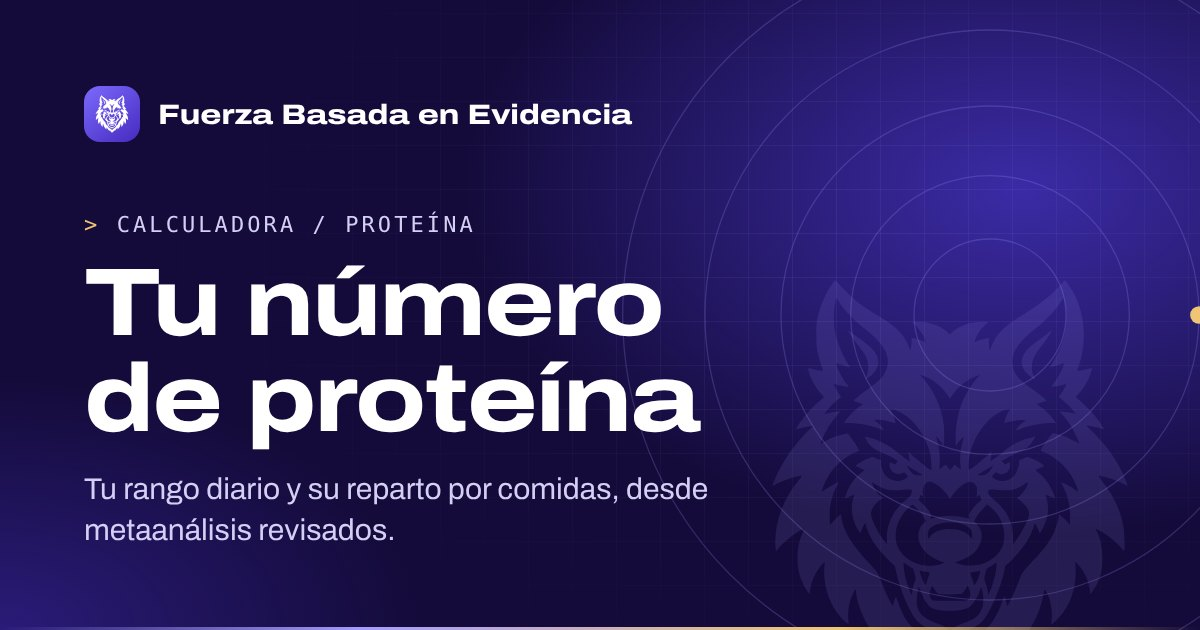
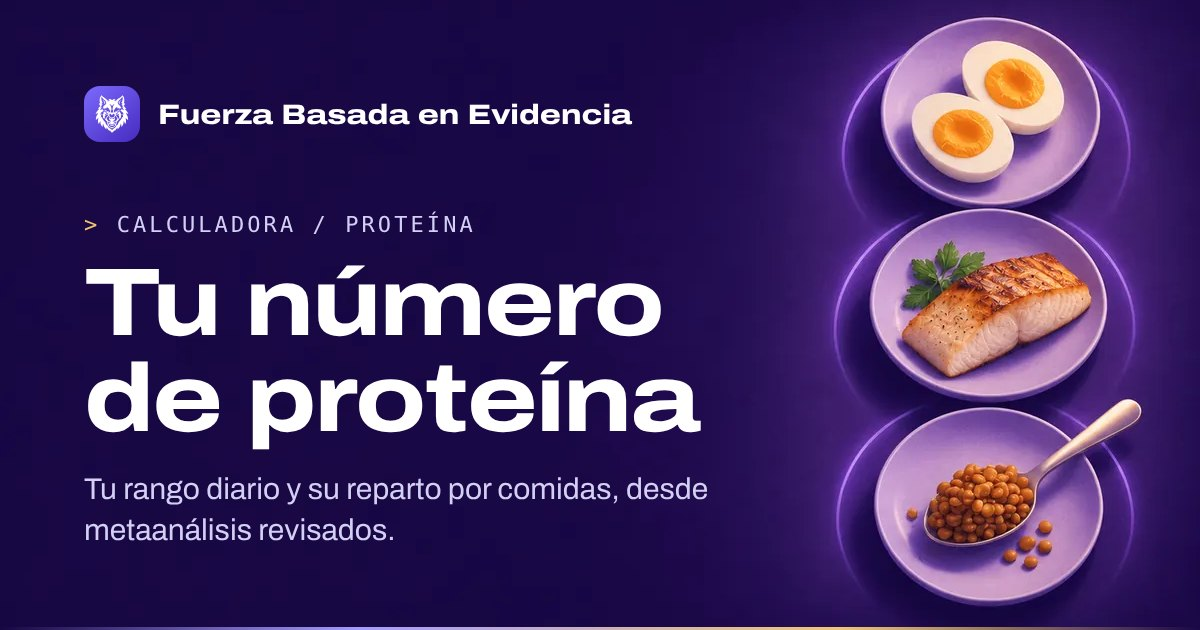
Ilustraciones W6: Pedir plaza, Recibido, Privacidad y calculadora (cabecera e imagen al compartir)
Claude-Session: https://claude.ai/code/session_01Ru5yvGXfDuFuGUYrexRL2R

diff --git a/privacidad.html b/privacidad.html
@@ -13,7 +13,7 @@
   <a class="btn peq claro" href="pedir-plaza.html">Pedir plaza</a>
   <details class="menu"><summary aria-label="Abrir el menú"><span></span></summary><div><a href="index.html">Inicio</a><a href="quien-soy.html">Quién soy</a><a href="programas.html">Programas</a><a href="puesta-a-punto.html">Puesta a punto</a><a href="guias.html">Guías</a><a href="newsletter.html">Newsletter</a><a href="dudas.html">Dudas</a><a class="app" href="https://atletas.fuerzabasadaenevidencia.com">Ya soy atleta: entrar</a></div></details>
 </div></div>
-<header class="hero mini t-privacidad" id="inicio"><svg class="anillos" viewBox="0 0 600 600" aria-hidden="true"><circle cx="300" cy="300" r="60"/><circle cx="300" cy="300" r="110"/><circle cx="300" cy="300" r="165"/><circle cx="300" cy="300" r="225"/><circle cx="300" cy="300" r="290"/><circle class="punto" cx="465" cy="300" r="7"/><circle class="punto p2" cx="300" cy="75" r="5"/></svg><div class="marca-agua"><svg class="lobo" viewBox="150 82 954 1092" aria-hidden="true"><path fill-rule="evenodd" d="M318 93C298 118 281 158 274 198C272 213 272 250 274 267C276 281 284 310 288 320C292 329 292 329 270 325C248 320 250 320 252 327C256 347 270 372 287 391L293 398 286 404C263 422 236 453 221 478C218 484 217 484 229 480C239 478 259 474 263 474C265 474 262 477 249 489C226 512 206 537 189 565C177 584 161 617 157 630L156 633 163 630C181 620 202 613 221 608C236 605 236 605 228 615C183 667 158 740 165 801C165 808 166 808 169 803C182 786 211 761 233 750C242 745 242 746 238 754C221 788 218 837 230 874C235 890 247 912 254 918C256 920 256 920 256 917C256 893 270 860 289 840L295 834 295 838C288 889 305 944 338 982C343 988 358 1001 359 1000C359 1000 358 997 358 993C356 977 357 955 362 939C364 930 375 908 377 907C377 907 378 910 378 915C381 949 401 995 427 1030C438 1044 456 1062 466 1068L469 1070 468 1058C468 1049 468 1044 469 1037C471 1026 476 1012 478 1013C478 1013 480 1017 482 1022C494 1052 520 1085 547 1108L556 1114 556 1103L557 1091 564 1101C577 1118 624 1167 627 1167C629 1167 672 1123 680 1114C684 1109 689 1102 692 1098L698 1090 698 1102C698 1109 698 1114 699 1114C700 1114 715 1101 724 1092C745 1071 764 1042 773 1020C775 1016 776 1013 777 1013C778 1013 782 1025 784 1035C786 1042 786 1046 786 1057C786 1064 786 1070 786 1070C788 1070 804 1056 811 1048C843 1015 867 966 874 923C875 918 876 912 877 910L877 907 880 911C893 929 900 965 896 992C896 996 895 1000 896 1000C896 1001 909 990 916 982C949 947 965 893 959 839L959 834 963 838C982 855 998 891 998 916C998 921 999 921 1005 912C1023 889 1031 860 1031 826C1031 799 1026 774 1017 755C1012 746 1012 745 1020 750C1041 760 1067 781 1083 800L1088 807 1089 803C1091 795 1089 756 1087 743C1079 696 1058 652 1026 615C1018 604 1017 604 1036 609C1053 613 1074 621 1091 630C1095 631 1098 633 1098 633C1098 630 1087 603 1081 592C1062 554 1037 521 1004 489C996 480 989 474 989 474C990 473 1018 478 1026 481C1032 482 1036 483 1036 483C1036 482 1018 455 1011 447C1001 435 980 414 970 406C965 402 961 398 961 398C961 397 964 393 968 389C984 372 998 347 1003 324C1004 320 1005 320 984 325C961 329 963 330 967 319C989 259 986 188 960 132C952 115 934 88 931 88C931 88 925 94 919 101C889 133 862 154 809 186C780 204 763 219 749 239C743 249 736 264 734 270C733 278 730 266 730 251L730 240 727 241C715 244 709 245 701 248C696 250 692 252 692 252C692 251 695 243 698 236C703 225 709 217 720 207L728 199 718 198C686 196 653 207 633 225L627 231 621 226C601 206 562 194 531 199L526 200 532 204C540 211 550 224 555 233C559 241 563 251 562 252C562 252 558 250 553 248C546 246 538 243 527 241L525 240 525 251C525 262 523 274 521 272C521 272 520 269 519 266C508 236 487 213 445 187C408 165 396 156 378 142C366 133 341 108 331 96C327 92 323 88 323 88C323 88 320 90 318 93M324 142C318 165 318 198 322 222C327 250 340 282 357 310L362 318 357 318C355 317 346 315 339 312C332 310 326 308 325 308C324 309 331 326 337 337C342 347 351 361 357 367L359 370 355 370C349 370 338 368 327 365C323 363 319 363 319 363C319 366 332 389 337 395L340 397 337 399C324 408 309 423 298 437C293 443 293 443 306 440C315 437 330 435 335 435C337 435 335 437 330 443C312 463 297 487 288 510C284 521 284 522 289 519C305 508 329 499 353 494C355 493 357 494 364 504C374 517 380 527 384 535L387 540 382 542C347 555 315 584 298 620C293 630 286 648 288 648C288 648 292 645 297 642C305 636 325 625 331 623L333 623 331 626C320 645 313 665 309 690C308 701 308 733 309 735C310 735 311 734 313 732C321 722 336 708 338 708C339 708 339 711 339 715C343 751 367 791 416 841C434 860 436 863 444 884C451 902 459 920 464 931C468 939 475 951 476 951C476 951 477 947 478 942C480 934 483 926 484 926C484 927 486 933 489 940C497 966 512 993 527 1008C537 1019 547 1027 563 1035C582 1044 592 1051 602 1061C610 1069 621 1084 625 1092C627 1097 627 1097 630 1092C633 1084 643 1070 650 1063C660 1052 668 1046 687 1036C697 1031 708 1025 712 1022C734 1005 753 976 765 940L771 925 773 930C774 933 776 939 777 943L778 951 780 949C786 941 801 908 811 881C818 863 819 861 836 843C872 806 888 786 901 760C909 742 915 722 915 711C915 709 915 708 916 708C918 708 931 720 941 731C943 733 944 735 945 735C945 734 945 725 945 713C945 682 940 661 927 635C920 621 920 622 932 627C939 630 955 640 961 645C967 649 967 648 963 636C950 596 915 559 875 543L867 540 871 532C875 525 889 504 896 497L899 493 907 495C922 498 935 503 952 512C961 516 969 520 969 520C970 520 965 507 959 496C950 476 938 459 922 441C917 436 917 435 919 435C924 435 942 438 950 440C955 441 959 442 959 442C959 441 954 434 945 424C938 417 930 409 917 399L915 397 921 389C927 380 935 366 935 364C935 363 934 363 929 364C917 368 896 371 896 369C896 369 899 365 902 361C909 351 914 344 919 334C924 325 930 309 929 308C928 308 926 309 922 310C915 313 896 318 894 318C892 318 893 316 898 308C928 258 940 210 934 162C932 150 929 136 928 135C928 134 925 138 922 143C910 163 890 185 867 205C835 231 830 235 821 245C800 267 791 286 792 307C794 332 805 348 840 373C866 391 885 407 882 408C881 409 875 410 869 412C862 414 857 416 857 416C857 417 861 419 865 422C880 432 893 445 904 460L908 466 895 466C859 468 831 474 808 484C805 485 803 486 802 486C800 483 816 466 824 462L829 460 824 459C817 457 798 459 784 463C777 465 771 467 771 467C770 466 776 448 780 440L786 429 782 430C732 437 679 509 676 575C676 592 676 592 684 587C693 581 709 568 724 554L737 542 737 546C737 547 736 553 736 558C735 562 734 566 734 567C735 568 758 552 771 540C786 528 802 518 820 511C826 509 852 502 853 502C854 503 848 513 843 519C835 530 823 538 804 546C792 551 783 556 772 562L764 567 768 571C772 577 772 577 779 573C786 569 786 569 786 575C789 594 770 608 752 599L748 597 743 602C737 609 737 608 742 612C758 625 783 622 797 606C804 598 811 578 810 568C810 566 810 565 820 561L831 556 840 559C851 563 862 568 871 575C878 580 878 580 873 582C871 583 866 585 862 587L854 591 857 594C874 607 887 622 896 641C901 651 907 666 905 666C905 666 900 664 894 662C881 656 879 656 881 659C887 674 889 701 884 717C881 728 876 741 871 749C864 760 865 760 862 751C857 738 850 728 850 735C850 738 843 757 840 764C828 788 804 818 783 837L773 845 772 854C764 893 741 952 722 980C711 997 700 1005 669 1018C653 1025 640 1035 630 1046L627 1050 618 1041C607 1030 599 1024 582 1016C558 1006 550 1001 540 991C520 968 493 905 483 855L481 846 472 837C438 806 416 775 407 746C402 730 403 731 399 736C397 741 395 745 390 757C389 761 378 742 372 726C365 705 365 679 372 662C373 659 374 657 373 657C371 657 360 661 355 664C352 665 349 666 349 666C348 665 353 650 358 640C366 623 380 607 393 597C397 594 400 592 400 591C400 591 389 586 383 583C380 582 377 580 377 580C377 577 405 561 417 558L422 556 433 561L445 565 444 569C443 579 449 596 456 605C470 622 497 625 513 611L516 608 511 603L506 597 502 599C495 603 485 602 478 598C470 593 465 582 467 573L468 570 475 573C483 577 482 577 486 571L489 567 484 564C474 557 465 553 451 547C428 537 419 531 410 519C407 514 401 504 401 503C401 502 422 507 433 511C451 518 467 527 485 542C497 552 514 564 518 567C521 568 521 568 521 567C519 564 517 544 517 543C518 543 521 545 524 549C542 565 574 591 577 591C579 591 577 562 575 550C562 492 520 442 478 431C473 430 469 429 469 429C469 430 471 434 474 440C478 449 484 466 483 467C482 467 479 466 474 465C459 460 434 456 428 459C426 460 426 460 432 463C439 468 447 476 450 482C451 484 452 486 452 486C451 486 448 485 444 483C421 473 394 468 360 466L346 466 348 463C355 450 386 421 395 418C396 418 397 417 397 417C397 416 381 411 375 409C373 409 371 408 371 408C371 406 391 389 413 374C433 359 439 354 446 346C464 324 467 299 455 275C445 256 430 239 399 215C368 190 344 164 331 142C329 138 326 134 326 134C326 134 325 137 324 142M888 227C884 230 874 238 866 244C839 262 830 271 823 284C812 302 816 322 834 338C842 346 853 353 852 349C845 334 844 329 844 318C844 299 852 283 874 257C884 244 897 224 896 221C896 221 892 223 888 227M358 222C358 226 371 245 383 260C405 286 411 300 410 321C409 331 409 334 406 342C404 347 402 351 403 351C405 351 418 341 423 336C437 320 441 303 433 287C426 273 418 265 390 244C381 239 371 231 367 227C359 221 358 220 358 222M552 344C584 378 606 426 611 474C612 485 612 525 611 527C611 529 610 527 607 522C603 516 591 502 590 503C590 503 591 508 593 512C599 535 602 563 599 582C599 586 599 589 599 589C599 589 603 586 607 583C611 579 615 576 615 576C615 576 618 579 621 583C624 588 627 591 627 591C627 591 630 588 633 584C637 579 639 576 639 576C640 576 643 579 646 582C656 590 656 590 655 581C652 561 655 531 662 510C663 506 663 503 663 503C661 503 649 518 646 523C642 531 642 529 642 505C642 474 646 450 655 423C664 396 684 363 702 344C708 338 708 338 700 341C676 348 648 370 633 393C630 398 627 402 627 402C627 402 624 398 621 393C607 371 581 350 557 342C547 338 546 338 552 344M513 580C513 581 520 592 524 596C530 603 535 605 545 605C555 605 555 604 548 600C544 598 536 593 529 589C515 580 513 579 513 580M735 583C728 587 710 598 704 601C698 604 700 605 709 605C721 606 730 599 739 583C742 578 741 578 735 583M565 624C557 629 553 644 556 657C557 663 557 662 553 659C548 657 548 656 548 659C548 660 547 663 546 665L544 670 555 681C571 696 577 706 577 713C576 716 576 719 575 719C575 721 576 720 581 719C609 710 647 710 673 719C676 720 679 721 679 721C679 721 678 718 678 715C676 710 676 710 679 705C686 693 697 681 708 672C711 670 711 670 710 668C709 667 708 664 707 661L706 657 701 660C697 663 697 663 697 661C699 655 699 641 698 636C694 628 687 622 681 622C668 622 643 642 632 660C630 664 627 668 627 668C627 668 625 665 623 662C615 648 600 633 585 626C576 621 571 621 565 624M420 623C420 624 421 626 422 629C427 643 435 655 445 661L450 665 443 669C427 680 415 699 418 711C421 725 434 751 443 765C449 774 459 787 460 787C460 787 460 784 460 779C456 739 476 695 512 668C516 665 521 661 522 659C524 655 527 647 527 646C526 643 515 642 506 643C470 647 453 644 431 630C420 623 420 623 420 623M825 628C816 635 805 640 794 643C785 645 770 645 749 643C734 641 727 643 728 648C728 655 732 660 744 670C779 698 797 736 794 778C794 783 794 787 794 787C795 787 805 773 811 764C821 750 831 728 836 713C837 706 836 699 831 691C827 685 815 672 809 669C806 667 804 665 804 665C804 665 807 663 810 661C819 654 831 637 833 626C834 622 834 622 825 628M523 686C485 716 471 770 494 804C517 839 564 853 606 839C609 838 612 836 612 836C612 836 608 834 603 833C559 818 535 784 545 751C547 744 554 733 558 731C564 728 564 728 559 718C553 707 548 702 537 691L528 682 523 686M716 692C706 702 700 710 694 721L691 727 697 733C720 754 714 792 685 815C677 821 663 828 651 832C643 835 641 836 643 837C644 837 647 838 649 839C663 844 686 846 703 842C733 836 759 814 768 789C771 777 772 756 768 743C763 721 751 702 733 688C729 685 726 682 726 682C725 682 721 686 716 692M604 732C578 736 565 750 569 768C570 774 571 774 574 768C581 756 596 749 621 747C650 746 673 754 682 770L683 773 684 771C686 767 686 756 684 752C680 743 671 737 656 733C646 730 616 729 604 732M504 841C504 859 513 895 522 915L525 922 527 914C528 905 532 889 535 883C536 880 536 879 534 868C532 862 531 856 530 854C530 853 528 851 525 850C521 848 516 844 512 841L504 836 504 841M747 838C745 840 736 846 729 849C726 851 724 853 724 854C723 855 722 862 720 868C718 879 718 880 719 883C722 891 725 903 727 912L729 922 731 917C738 903 746 876 749 856C751 838 750 833 747 838M547 859C547 865 556 888 561 894L563 896 565 887C567 883 569 875 571 871C574 863 574 862 571 862C568 862 552 859 549 858C548 858 547 858 547 859M700 860C696 860 691 861 687 862C684 862 681 863 681 863C681 864 687 883 691 895C691 897 694 894 698 886C702 878 709 858 706 858C706 858 703 859 700 860M578 901C571 917 572 931 580 935C583 937 590 937 626 937C667 937 671 937 674 935C682 931 683 916 676 901L674 897 670 904C667 908 664 913 662 915L659 919 641 920C628 921 620 921 610 920C593 919 594 919 585 906L580 897 578 901M544 901C540 912 538 942 540 952C546 974 558 984 590 996C606 1002 613 1006 621 1012L627 1017 631 1014C637 1008 648 1002 661 997C690 987 702 979 709 963C716 951 717 932 713 913C710 899 710 898 707 908C697 935 685 952 673 957C653 966 598 966 580 957C569 952 558 936 548 909C544 899 544 899 544 901"/></svg></div><div class="in"><div class="txt"><span class="miga"><a href="index.html">Inicio</a> / Privacidad</span><h1>Política de privacidad</h1><p class="sub">Qué datos trato, para qué, cuánto tiempo los guardo y cómo ejercer tus derechos.</p></div></div></header>
+<header class="hero mini t-privacidad" id="inicio"><svg class="anillos" viewBox="0 0 600 600" aria-hidden="true"><circle cx="300" cy="300" r="60"/><circle cx="300" cy="300" r="110"/><circle cx="300" cy="300" r="165"/><circle cx="300" cy="300" r="225"/><circle cx="300" cy="300" r="290"/><circle class="punto" cx="465" cy="300" r="7"/><circle class="punto p2" cx="300" cy="75" r="5"/></svg><img class="ilus" src="img/web-privacidad.webp" alt="" width="864" height="760" loading="eager" fetchpriority="high" decoding="async"><div class="in"><div class="txt"><span class="miga"><a href="index.html">Inicio</a> / Privacidad</span><h1>Política de privacidad</h1><p class="sub">Qué datos trato, para qué, cuánto tiempo los guardo y cómo ejercer tus derechos.</p></div></div></header>
 <main id="contenido"><section><div class="in"><div class="prosa">
 <p><strong>Responsable del tratamiento:</strong> Pelayo Fernández Cidón, médico especialista en Medicina Interna, NIF 71777712W, con domicilio a efectos de notificaciones en Fernández de los Ríos 63, 28015, Madrid. Contacto: <a href="mailto:pelayofbe&#64;fuerzabasadaenevidencia&#46;com">pelayofbe&#64;fuerzabasadaenevidencia&#46;com</a>.</p>
 <p>En Fuerza Basada en Evidencia nos tomamos muy en serio la protección de tus datos. Esta política explica qué información recogemos, con qué finalidad, durante cuánto tiempo la conservamos y qué derechos tienes sobre ella.</p>

diff --git a/gracias-plaza.html b/gracias-plaza.html
@@ -13,7 +13,7 @@
   <a class="btn peq claro" href="pedir-plaza.html">Pedir plaza</a>
   <details class="menu"><summary aria-label="Abrir el menú"><span></span></summary><div><a href="index.html">Inicio</a><a href="quien-soy.html">Quién soy</a><a href="programas.html">Programas</a><a href="puesta-a-punto.html">Puesta a punto</a><a href="guias.html">Guías</a><a href="newsletter.html">Newsletter</a><a href="dudas.html">Dudas</a><a class="app" href="https://atletas.fuerzabasadaenevidencia.com">Ya soy atleta: entrar</a></div></details>
 </div></div>
-<header class="hero mini t-pedir-plaza" id="inicio"><svg class="anillos" viewBox="0 0 600 600" aria-hidden="true"><circle cx="300" cy="300" r="60"/><circle cx="300" cy="300" r="110"/><circle cx="300" cy="300" r="165"/><circle cx="300" cy="300" r="225"/><circle cx="300" cy="300" r="290"/><circle class="punto" cx="465" cy="300" r="7"/><circle class="punto p2" cx="300" cy="75" r="5"/></svg><div class="marca-agua"><svg class="lobo" viewBox="150 82 954 1092" aria-hidden="true"><path fill-rule="evenodd" d="M318 93C298 118 281 158 274 198C272 213 272 250 274 267C276 281 284 310 288 320C292 329 292 329 270 325C248 320 250 320 252 327C256 347 270 372 287 391L293 398 286 404C263 422 236 453 221 478C218 484 217 484 229 480C239 478 259 474 263 474C265 474 262 477 249 489C226 512 206 537 189 565C177 584 161 617 157 630L156 633 163 630C181 620 202 613 221 608C236 605 236 605 228 615C183 667 158 740 165 801C165 808 166 808 169 803C182 786 211 761 233 750C242 745 242 746 238 754C221 788 218 837 230 874C235 890 247 912 254 918C256 920 256 920 256 917C256 893 270 860 289 840L295 834 295 838C288 889 305 944 338 982C343 988 358 1001 359 1000C359 1000 358 997 358 993C356 977 357 955 362 939C364 930 375 908 377 907C377 907 378 910 378 915C381 949 401 995 427 1030C438 1044 456 1062 466 1068L469 1070 468 1058C468 1049 468 1044 469 1037C471 1026 476 1012 478 1013C478 1013 480 1017 482 1022C494 1052 520 1085 547 1108L556 1114 556 1103L557 1091 564 1101C577 1118 624 1167 627 1167C629 1167 672 1123 680 1114C684 1109 689 1102 692 1098L698 1090 698 1102C698 1109 698 1114 699 1114C700 1114 715 1101 724 1092C745 1071 764 1042 773 1020C775 1016 776 1013 777 1013C778 1013 782 1025 784 1035C786 1042 786 1046 786 1057C786 1064 786 1070 786 1070C788 1070 804 1056 811 1048C843 1015 867 966 874 923C875 918 876 912 877 910L877 907 880 911C893 929 900 965 896 992C896 996 895 1000 896 1000C896 1001 909 990 916 982C949 947 965 893 959 839L959 834 963 838C982 855 998 891 998 916C998 921 999 921 1005 912C1023 889 1031 860 1031 826C1031 799 1026 774 1017 755C1012 746 1012 745 1020 750C1041 760 1067 781 1083 800L1088 807 1089 803C1091 795 1089 756 1087 743C1079 696 1058 652 1026 615C1018 604 1017 604 1036 609C1053 613 1074 621 1091 630C1095 631 1098 633 1098 633C1098 630 1087 603 1081 592C1062 554 1037 521 1004 489C996 480 989 474 989 474C990 473 1018 478 1026 481C1032 482 1036 483 1036 483C1036 482 1018 455 1011 447C1001 435 980 414 970 406C965 402 961 398 961 398C961 397 964 393 968 389C984 372 998 347 1003 324C1004 320 1005 320 984 325C961 329 963 330 967 319C989 259 986 188 960 132C952 115 934 88 931 88C931 88 925 94 919 101C889 133 862 154 809 186C780 204 763 219 749 239C743 249 736 264 734 270C733 278 730 266 730 251L730 240 727 241C715 244 709 245 701 248C696 250 692 252 692 252C692 251 695 243 698 236C703 225 709 217 720 207L728 199 718 198C686 196 653 207 633 225L627 231 621 226C601 206 562 194 531 199L526 200 532 204C540 211 550 224 555 233C559 241 563 251 562 252C562 252 558 250 553 248C546 246 538 243 527 241L525 240 525 251C525 262 523 274 521 272C521 272 520 269 519 266C508 236 487 213 445 187C408 165 396 156 378 142C366 133 341 108 331 96C327 92 323 88 323 88C323 88 320 90 318 93M324 142C318 165 318 198 322 222C327 250 340 282 357 310L362 318 357 318C355 317 346 315 339 312C332 310 326 308 325 308C324 309 331 326 337 337C342 347 351 361 357 367L359 370 355 370C349 370 338 368 327 365C323 363 319 363 319 363C319 366 332 389 337 395L340 397 337 399C324 408 309 423 298 437C293 443 293 443 306 440C315 437 330 435 335 435C337 435 335 437 330 443C312 463 297 487 288 510C284 521 284 522 289 519C305 508 329 499 353 494C355 493 357 494 364 504C374 517 380 527 384 535L387 540 382 542C347 555 315 584 298 620C293 630 286 648 288 648C288 648 292 645 297 642C305 636 325 625 331 623L333 623 331 626C320 645 313 665 309 690C308 701 308 733 309 735C310 735 311 734 313 732C321 722 336 708 338 708C339 708 339 711 339 715C343 751 367 791 416 841C434 860 436 863 444 884C451 902 459 920 464 931C468 939 475 951 476 951C476 951 477 947 478 942C480 934 483 926 484 926C484 927 486 933 489 940C497 966 512 993 527 1008C537 1019 547 1027 563 1035C582 1044 592 1051 602 1061C610 1069 621 1084 625 1092C627 1097 627 1097 630 1092C633 1084 643 1070 650 1063C660 1052 668 1046 687 1036C697 1031 708 1025 712 1022C734 1005 753 976 765 940L771 925 773 930C774 933 776 939 777 943L778 951 780 949C786 941 801 908 811 881C818 863 819 861 836 843C872 806 888 786 901 760C909 742 915 722 915 711C915 709 915 708 916 708C918 708 931 720 941 731C943 733 944 735 945 735C945 734 945 725 945 713C945 682 940 661 927 635C920 621 920 622 932 627C939 630 955 640 961 645C967 649 967 648 963 636C950 596 915 559 875 543L867 540 871 532C875 525 889 504 896 497L899 493 907 495C922 498 935 503 952 512C961 516 969 520 969 520C970 520 965 507 959 496C950 476 938 459 922 441C917 436 917 435 919 435C924 435 942 438 950 440C955 441 959 442 959 442C959 441 954 434 945 424C938 417 930 409 917 399L915 397 921 389C927 380 935 366 935 364C935 363 934 363 929 364C917 368 896 371 896 369C896 369 899 365 902 361C909 351 914 344 919 334C924 325 930 309 929 308C928 308 926 309 922 310C915 313 896 318 894 318C892 318 893 316 898 308C928 258 940 210 934 162C932 150 929 136 928 135C928 134 925 138 922 143C910 163 890 185 867 205C835 231 830 235 821 245C800 267 791 286 792 307C794 332 805 348 840 373C866 391 885 407 882 408C881 409 875 410 869 412C862 414 857 416 857 416C857 417 861 419 865 422C880 432 893 445 904 460L908 466 895 466C859 468 831 474 808 484C805 485 803 486 802 486C800 483 816 466 824 462L829 460 824 459C817 457 798 459 784 463C777 465 771 467 771 467C770 466 776 448 780 440L786 429 782 430C732 437 679 509 676 575C676 592 676 592 684 587C693 581 709 568 724 554L737 542 737 546C737 547 736 553 736 558C735 562 734 566 734 567C735 568 758 552 771 540C786 528 802 518 820 511C826 509 852 502 853 502C854 503 848 513 843 519C835 530 823 538 804 546C792 551 783 556 772 562L764 567 768 571C772 577 772 577 779 573C786 569 786 569 786 575C789 594 770 608 752 599L748 597 743 602C737 609 737 608 742 612C758 625 783 622 797 606C804 598 811 578 810 568C810 566 810 565 820 561L831 556 840 559C851 563 862 568 871 575C878 580 878 580 873 582C871 583 866 585 862 587L854 591 857 594C874 607 887 622 896 641C901 651 907 666 905 666C905 666 900 664 894 662C881 656 879 656 881 659C887 674 889 701 884 717C881 728 876 741 871 749C864 760 865 760 862 751C857 738 850 728 850 735C850 738 843 757 840 764C828 788 804 818 783 837L773 845 772 854C764 893 741 952 722 980C711 997 700 1005 669 1018C653 1025 640 1035 630 1046L627 1050 618 1041C607 1030 599 1024 582 1016C558 1006 550 1001 540 991C520 968 493 905 483 855L481 846 472 837C438 806 416 775 407 746C402 730 403 731 399 736C397 741 395 745 390 757C389 761 378 742 372 726C365 705 365 679 372 662C373 659 374 657 373 657C371 657 360 661 355 664C352 665 349 666 349 666C348 665 353 650 358 640C366 623 380 607 393 597C397 594 400 592 400 591C400 591 389 586 383 583C380 582 377 580 377 580C377 577 405 561 417 558L422 556 433 561L445 565 444 569C443 579 449 596 456 605C470 622 497 625 513 611L516 608 511 603L506 597 502 599C495 603 485 602 478 598C470 593 465 582 467 573L468 570 475 573C483 577 482 577 486 571L489 567 484 564C474 557 465 553 451 547C428 537 419 531 410 519C407 514 401 504 401 503C401 502 422 507 433 511C451 518 467 527 485 542C497 552 514 564 518 567C521 568 521 568 521 567C519 564 517 544 517 543C518 543 521 545 524 549C542 565 574 591 577 591C579 591 577 562 575 550C562 492 520 442 478 431C473 430 469 429 469 429C469 430 471 434 474 440C478 449 484 466 483 467C482 467 479 466 474 465C459 460 434 456 428 459C426 460 426 460 432 463C439 468 447 476 450 482C451 484 452 486 452 486C451 486 448 485 444 483C421 473 394 468 360 466L346 466 348 463C355 450 386 421 395 418C396 418 397 417 397 417C397 416 381 411 375 409C373 409 371 408 371 408C371 406 391 389 413 374C433 359 439 354 446 346C464 324 467 299 455 275C445 256 430 239 399 215C368 190 344 164 331 142C329 138 326 134 326 134C326 134 325 137 324 142M888 227C884 230 874 238 866 244C839 262 830 271 823 284C812 302 816 322 834 338C842 346 853 353 852 349C845 334 844 329 844 318C844 299 852 283 874 257C884 244 897 224 896 221C896 221 892 223 888 227M358 222C358 226 371 245 383 260C405 286 411 300 410 321C409 331 409 334 406 342C404 347 402 351 403 351C405 351 418 341 423 336C437 320 441 303 433 287C426 273 418 265 390 244C381 239 371 231 367 227C359 221 358 220 358 222M552 344C584 378 606 426 611 474C612 485 612 525 611 527C611 529 610 527 607 522C603 516 591 502 590 503C590 503 591 508 593 512C599 535 602 563 599 582C599 586 599 589 599 589C599 589 603 586 607 583C611 579 615 576 615 576C615 576 618 579 621 583C624 588 627 591 627 591C627 591 630 588 633 584C637 579 639 576 639 576C640 576 643 579 646 582C656 590 656 590 655 581C652 561 655 531 662 510C663 506 663 503 663 503C661 503 649 518 646 523C642 531 642 529 642 505C642 474 646 450 655 423C664 396 684 363 702 344C708 338 708 338 700 341C676 348 648 370 633 393C630 398 627 402 627 402C627 402 624 398 621 393C607 371 581 350 557 342C547 338 546 338 552 344M513 580C513 581 520 592 524 596C530 603 535 605 545 605C555 605 555 604 548 600C544 598 536 593 529 589C515 580 513 579 513 580M735 583C728 587 710 598 704 601C698 604 700 605 709 605C721 606 730 599 739 583C742 578 741 578 735 583M565 624C557 629 553 644 556 657C557 663 557 662 553 659C548 657 548 656 548 659C548 660 547 663 546 665L544 670 555 681C571 696 577 706 577 713C576 716 576 719 575 719C575 721 576 720 581 719C609 710 647 710 673 719C676 720 679 721 679 721C679 721 678 718 678 715C676 710 676 710 679 705C686 693 697 681 708 672C711 670 711 670 710 668C709 667 708 664 707 661L706 657 701 660C697 663 697 663 697 661C699 655 699 641 698 636C694 628 687 622 681 622C668 622 643 642 632 660C630 664 627 668 627 668C627 668 625 665 623 662C615 648 600 633 585 626C576 621 571 621 565 624M420 623C420 624 421 626 422 629C427 643 435 655 445 661L450 665 443 669C427 680 415 699 418 711C421 725 434 751 443 765C449 774 459 787 460 787C460 787 460 784 460 779C456 739 476 695 512 668C516 665 521 661 522 659C524 655 527 647 527 646C526 643 515 642 506 643C470 647 453 644 431 630C420 623 420 623 420 623M825 628C816 635 805 640 794 643C785 645 770 645 749 643C734 641 727 643 728 648C728 655 732 660 744 670C779 698 797 736 794 778C794 783 794 787 794 787C795 787 805 773 811 764C821 750 831 728 836 713C837 706 836 699 831 691C827 685 815 672 809 669C806 667 804 665 804 665C804 665 807 663 810 661C819 654 831 637 833 626C834 622 834 622 825 628M523 686C485 716 471 770 494 804C517 839 564 853 606 839C609 838 612 836 612 836C612 836 608 834 603 833C559 818 535 784 545 751C547 744 554 733 558 731C564 728 564 728 559 718C553 707 548 702 537 691L528 682 523 686M716 692C706 702 700 710 694 721L691 727 697 733C720 754 714 792 685 815C677 821 663 828 651 832C643 835 641 836 643 837C644 837 647 838 649 839C663 844 686 846 703 842C733 836 759 814 768 789C771 777 772 756 768 743C763 721 751 702 733 688C729 685 726 682 726 682C725 682 721 686 716 692M604 732C578 736 565 750 569 768C570 774 571 774 574 768C581 756 596 749 621 747C650 746 673 754 682 770L683 773 684 771C686 767 686 756 684 752C680 743 671 737 656 733C646 730 616 729 604 732M504 841C504 859 513 895 522 915L525 922 527 914C528 905 532 889 535 883C536 880 536 879 534 868C532 862 531 856 530 854C530 853 528 851 525 850C521 848 516 844 512 841L504 836 504 841M747 838C745 840 736 846 729 849C726 851 724 853 724 854C723 855 722 862 720 868C718 879 718 880 719 883C722 891 725 903 727 912L729 922 731 917C738 903 746 876 749 856C751 838 750 833 747 838M547 859C547 865 556 888 561 894L563 896 565 887C567 883 569 875 571 871C574 863 574 862 571 862C568 862 552 859 549 858C548 858 547 858 547 859M700 860C696 860 691 861 687 862C684 862 681 863 681 863C681 864 687 883 691 895C691 897 694 894 698 886C702 878 709 858 706 858C706 858 703 859 700 860M578 901C571 917 572 931 580 935C583 937 590 937 626 937C667 937 671 937 674 935C682 931 683 916 676 901L674 897 670 904C667 908 664 913 662 915L659 919 641 920C628 921 620 921 610 920C593 919 594 919 585 906L580 897 578 901M544 901C540 912 538 942 540 952C546 974 558 984 590 996C606 1002 613 1006 621 1012L627 1017 631 1014C637 1008 648 1002 661 997C690 987 702 979 709 963C716 951 717 932 713 913C710 899 710 898 707 908C697 935 685 952 673 957C653 966 598 966 580 957C569 952 558 936 548 909C544 899 544 899 544 901"/></svg></div><div class="in"><div class="txt"><span class="miga"><a href="index.html">Inicio</a> / Pedir plaza / Recibido</span><h1>Recibido.</h1><p class="sub">Gracias por contarme tu caso. Te respondo yo.</p></div></div></header>
+<header class="hero mini t-pedir-plaza" id="inicio"><svg class="anillos" viewBox="0 0 600 600" aria-hidden="true"><circle cx="300" cy="300" r="60"/><circle cx="300" cy="300" r="110"/><circle cx="300" cy="300" r="165"/><circle cx="300" cy="300" r="225"/><circle cx="300" cy="300" r="290"/><circle class="punto" cx="465" cy="300" r="7"/><circle class="punto p2" cx="300" cy="75" r="5"/></svg><img class="ilus" src="img/web-recibido.webp" alt="" width="864" height="760" loading="eager" fetchpriority="high" decoding="async"><div class="in"><div class="txt"><span class="miga"><a href="index.html">Inicio</a> / Pedir plaza / Recibido</span><h1>Recibido.</h1><p class="sub">Gracias por contarme tu caso. Te respondo yo.</p></div></div></header>
 <main id="contenido">
 <section class="hoja"><div class="in"><div class="entrada sube"><h2>Mientras tanto</h2></div>
   <div class="cta sube" style="display:flex;flex-wrap:wrap;gap:.8rem"><a class="btn" href="programas.html">Ver los programas</a><a class="btn hueco" href="guias.html">Guías</a><a class="btn hueco" href="https://calculadoradeproteina.fuerzabasadaenevidencia.com/">Calculadora de proteína</a></div>

diff --git a/pedir-plaza.html b/pedir-plaza.html
@@ -13,7 +13,7 @@
   <a class="btn peq claro" href="pedir-plaza.html">Pedir plaza</a>
   <details class="menu"><summary aria-label="Abrir el menú"><span></span></summary><div><a href="index.html">Inicio</a><a href="quien-soy.html">Quién soy</a><a href="programas.html">Programas</a><a href="puesta-a-punto.html">Puesta a punto</a><a href="guias.html">Guías</a><a href="newsletter.html">Newsletter</a><a href="dudas.html">Dudas</a><a class="app" href="https://atletas.fuerzabasadaenevidencia.com">Ya soy atleta: entrar</a></div></details>
 </div></div>
-<header class="hero mini t-pedir-plaza" id="inicio"><svg class="anillos" viewBox="0 0 600 600" aria-hidden="true"><circle cx="300" cy="300" r="60"/><circle cx="300" cy="300" r="110"/><circle cx="300" cy="300" r="165"/><circle cx="300" cy="300" r="225"/><circle cx="300" cy="300" r="290"/><circle class="punto" cx="465" cy="300" r="7"/><circle class="punto p2" cx="300" cy="75" r="5"/></svg><div class="marca-agua"><svg class="lobo" viewBox="150 82 954 1092" aria-hidden="true"><path fill-rule="evenodd" d="M318 93C298 118 281 158 274 198C272 213 272 250 274 267C276 281 284 310 288 320C292 329 292 329 270 325C248 320 250 320 252 327C256 347 270 372 287 391L293 398 286 404C263 422 236 453 221 478C218 484 217 484 229 480C239 478 259 474 263 474C265 474 262 477 249 489C226 512 206 537 189 565C177 584 161 617 157 630L156 633 163 630C181 620 202 613 221 608C236 605 236 605 228 615C183 667 158 740 165 801C165 808 166 808 169 803C182 786 211 761 233 750C242 745 242 746 238 754C221 788 218 837 230 874C235 890 247 912 254 918C256 920 256 920 256 917C256 893 270 860 289 840L295 834 295 838C288 889 305 944 338 982C343 988 358 1001 359 1000C359 1000 358 997 358 993C356 977 357 955 362 939C364 930 375 908 377 907C377 907 378 910 378 915C381 949 401 995 427 1030C438 1044 456 1062 466 1068L469 1070 468 1058C468 1049 468 1044 469 1037C471 1026 476 1012 478 1013C478 1013 480 1017 482 1022C494 1052 520 1085 547 1108L556 1114 556 1103L557 1091 564 1101C577 1118 624 1167 627 1167C629 1167 672 1123 680 1114C684 1109 689 1102 692 1098L698 1090 698 1102C698 1109 698 1114 699 1114C700 1114 715 1101 724 1092C745 1071 764 1042 773 1020C775 1016 776 1013 777 1013C778 1013 782 1025 784 1035C786 1042 786 1046 786 1057C786 1064 786 1070 786 1070C788 1070 804 1056 811 1048C843 1015 867 966 874 923C875 918 876 912 877 910L877 907 880 911C893 929 900 965 896 992C896 996 895 1000 896 1000C896 1001 909 990 916 982C949 947 965 893 959 839L959 834 963 838C982 855 998 891 998 916C998 921 999 921 1005 912C1023 889 1031 860 1031 826C1031 799 1026 774 1017 755C1012 746 1012 745 1020 750C1041 760 1067 781 1083 800L1088 807 1089 803C1091 795 1089 756 1087 743C1079 696 1058 652 1026 615C1018 604 1017 604 1036 609C1053 613 1074 621 1091 630C1095 631 1098 633 1098 633C1098 630 1087 603 1081 592C1062 554 1037 521 1004 489C996 480 989 474 989 474C990 473 1018 478 1026 481C1032 482 1036 483 1036 483C1036 482 1018 455 1011 447C1001 435 980 414 970 406C965 402 961 398 961 398C961 397 964 393 968 389C984 372 998 347 1003 324C1004 320 1005 320 984 325C961 329 963 330 967 319C989 259 986 188 960 132C952 115 934 88 931 88C931 88 925 94 919 101C889 133 862 154 809 186C780 204 763 219 749 239C743 249 736 264 734 270C733 278 730 266 730 251L730 240 727 241C715 244 709 245 701 248C696 250 692 252 692 252C692 251 695 243 698 236C703 225 709 217 720 207L728 199 718 198C686 196 653 207 633 225L627 231 621 226C601 206 562 194 531 199L526 200 532 204C540 211 550 224 555 233C559 241 563 251 562 252C562 252 558 250 553 248C546 246 538 243 527 241L525 240 525 251C525 262 523 274 521 272C521 272 520 269 519 266C508 236 487 213 445 187C408 165 396 156 378 142C366 133 341 108 331 96C327 92 323 88 323 88C323 88 320 90 318 93M324 142C318 165 318 198 322 222C327 250 340 282 357 310L362 318 357 318C355 317 346 315 339 312C332 310 326 308 325 308C324 309 331 326 337 337C342 347 351 361 357 367L359 370 355 370C349 370 338 368 327 365C323 363 319 363 319 363C319 366 332 389 337 395L340 397 337 399C324 408 309 423 298 437C293 443 293 443 306 440C315 437 330 435 335 435C337 435 335 437 330 443C312 463 297 487 288 510C284 521 284 522 289 519C305 508 329 499 353 494C355 493 357 494 364 504C374 517 380 527 384 535L387 540 382 542C347 555 315 584 298 620C293 630 286 648 288 648C288 648 292 645 297 642C305 636 325 625 331 623L333 623 331 626C320 645 313 665 309 690C308 701 308 733 309 735C310 735 311 734 313 732C321 722 336 708 338 708C339 708 339 711 339 715C343 751 367 791 416 841C434 860 436 863 444 884C451 902 459 920 464 931C468 939 475 951 476 951C476 951 477 947 478 942C480 934 483 926 484 926C484 927 486 933 489 940C497 966 512 993 527 1008C537 1019 547 1027 563 1035C582 1044 592 1051 602 1061C610 1069 621 1084 625 1092C627 1097 627 1097 630 1092C633 1084 643 1070 650 1063C660 1052 668 1046 687 1036C697 1031 708 1025 712 1022C734 1005 753 976 765 940L771 925 773 930C774 933 776 939 777 943L778 951 780 949C786 941 801 908 811 881C818 863 819 861 836 843C872 806 888 786 901 760C909 742 915 722 915 711C915 709 915 708 916 708C918 708 931 720 941 731C943 733 944 735 945 735C945 734 945 725 945 713C945 682 940 661 927 635C920 621 920 622 932 627C939 630 955 640 961 645C967 649 967 648 963 636C950 596 915 559 875 543L867 540 871 532C875 525 889 504 896 497L899 493 907 495C922 498 935 503 952 512C961 516 969 520 969 520C970 520 965 507 959 496C950 476 938 459 922 441C917 436 917 435 919 435C924 435 942 438 950 440C955 441 959 442 959 442C959 441 954 434 945 424C938 417 930 409 917 399L915 397 921 389C927 380 935 366 935 364C935 363 934 363 929 364C917 368 896 371 896 369C896 369 899 365 902 361C909 351 914 344 919 334C924 325 930 309 929 308C928 308 926 309 922 310C915 313 896 318 894 318C892 318 893 316 898 308C928 258 940 210 934 162C932 150 929 136 928 135C928 134 925 138 922 143C910 163 890 185 867 205C835 231 830 235 821 245C800 267 791 286 792 307C794 332 805 348 840 373C866 391 885 407 882 408C881 409 875 410 869 412C862 414 857 416 857 416C857 417 861 419 865 422C880 432 893 445 904 460L908 466 895 466C859 468 831 474 808 484C805 485 803 486 802 486C800 483 816 466 824 462L829 460 824 459C817 457 798 459 784 463C777 465 771 467 771 467C770 466 776 448 780 440L786 429 782 430C732 437 679 509 676 575C676 592 676 592 684 587C693 581 709 568 724 554L737 542 737 546C737 547 736 553 736 558C735 562 734 566 734 567C735 568 758 552 771 540C786 528 802 518 820 511C826 509 852 502 853 502C854 503 848 513 843 519C835 530 823 538 804 546C792 551 783 556 772 562L764 567 768 571C772 577 772 577 779 573C786 569 786 569 786 575C789 594 770 608 752 599L748 597 743 602C737 609 737 608 742 612C758 625 783 622 797 606C804 598 811 578 810 568C810 566 810 565 820 561L831 556 840 559C851 563 862 568 871 575C878 580 878 580 873 582C871 583 866 585 862 587L854 591 857 594C874 607 887 622 896 641C901 651 907 666 905 666C905 666 900 664 894 662C881 656 879 656 881 659C887 674 889 701 884 717C881 728 876 741 871 749C864 760 865 760 862 751C857 738 850 728 850 735C850 738 843 757 840 764C828 788 804 818 783 837L773 845 772 854C764 893 741 952 722 980C711 997 700 1005 669 1018C653 1025 640 1035 630 1046L627 1050 618 1041C607 1030 599 1024 582 1016C558 1006 550 1001 540 991C520 968 493 905 483 855L481 846 472 837C438 806 416 775 407 746C402 730 403 731 399 736C397 741 395 745 390 757C389 761 378 742 372 726C365 705 365 679 372 662C373 659 374 657 373 657C371 657 360 661 355 664C352 665 349 666 349 666C348 665 353 650 358 640C366 623 380 607 393 597C397 594 400 592 400 591C400 591 389 586 383 583C380 582 377 580 377 580C377 577 405 561 417 558L422 556 433 561L445 565 444 569C443 579 449 596 456 605C470 622 497 625 513 611L516 608 511 603L506 597 502 599C495 603 485 602 478 598C470 593 465 582 467 573L468 570 475 573C483 577 482 577 486 571L489 567 484 564C474 557 465 553 451 547C428 537 419 531 410 519C407 514 401 504 401 503C401 502 422 507 433 511C451 518 467 527 485 542C497 552 514 564 518 567C521 568 521 568 521 567C519 564 517 544 517 543C518 543 521 545 524 549C542 565 574 591 577 591C579 591 577 562 575 550C562 492 520 442 478 431C473 430 469 429 469 429C469 430 471 434 474 440C478 449 484 466 483 467C482 467 479 466 474 465C459 460 434 456 428 459C426 460 426 460 432 463C439 468 447 476 450 482C451 484 452 486 452 486C451 486 448 485 444 483C421 473 394 468 360 466L346 466 348 463C355 450 386 421 395 418C396 418 397 417 397 417C397 416 381 411 375 409C373 409 371 408 371 408C371 406 391 389 413 374C433 359 439 354 446 346C464 324 467 299 455 275C445 256 430 239 399 215C368 190 344 164 331 142C329 138 326 134 326 134C326 134 325 137 324 142M888 227C884 230 874 238 866 244C839 262 830 271 823 284C812 302 816 322 834 338C842 346 853 353 852 349C845 334 844 329 844 318C844 299 852 283 874 257C884 244 897 224 896 221C896 221 892 223 888 227M358 222C358 226 371 245 383 260C405 286 411 300 410 321C409 331 409 334 406 342C404 347 402 351 403 351C405 351 418 341 423 336C437 320 441 303 433 287C426 273 418 265 390 244C381 239 371 231 367 227C359 221 358 220 358 222M552 344C584 378 606 426 611 474C612 485 612 525 611 527C611 529 610 527 607 522C603 516 591 502 590 503C590 503 591 508 593 512C599 535 602 563 599 582C599 586 599 589 599 589C599 589 603 586 607 583C611 579 615 576 615 576C615 576 618 579 621 583C624 588 627 591 627 591C627 591 630 588 633 584C637 579 639 576 639 576C640 576 643 579 646 582C656 590 656 590 655 581C652 561 655 531 662 510C663 506 663 503 663 503C661 503 649 518 646 523C642 531 642 529 642 505C642 474 646 450 655 423C664 396 684 363 702 344C708 338 708 338 700 341C676 348 648 370 633 393C630 398 627 402 627 402C627 402 624 398 621 393C607 371 581 350 557 342C547 338 546 338 552 344M513 580C513 581 520 592 524 596C530 603 535 605 545 605C555 605 555 604 548 600C544 598 536 593 529 589C515 580 513 579 513 580M735 583C728 587 710 598 704 601C698 604 700 605 709 605C721 606 730 599 739 583C742 578 741 578 735 583M565 624C557 629 553 644 556 657C557 663 557 662 553 659C548 657 548 656 548 659C548 660 547 663 546 665L544 670 555 681C571 696 577 706 577 713C576 716 576 719 575 719C575 721 576 720 581 719C609 710 647 710 673 719C676 720 679 721 679 721C679 721 678 718 678 715C676 710 676 710 679 705C686 693 697 681 708 672C711 670 711 670 710 668C709 667 708 664 707 661L706 657 701 660C697 663 697 663 697 661C699 655 699 641 698 636C694 628 687 622 681 622C668 622 643 642 632 660C630 664 627 668 627 668C627 668 625 665 623 662C615 648 600 633 585 626C576 621 571 621 565 624M420 623C420 624 421 626 422 629C427 643 435 655 445 661L450 665 443 669C427 680 415 699 418 711C421 725 434 751 443 765C449 774 459 787 460 787C460 787 460 784 460 779C456 739 476 695 512 668C516 665 521 661 522 659C524 655 527 647 527 646C526 643 515 642 506 643C470 647 453 644 431 630C420 623 420 623 420 623M825 628C816 635 805 640 794 643C785 645 770 645 749 643C734 641 727 643 728 648C728 655 732 660 744 670C779 698 797 736 794 778C794 783 794 787 794 787C795 787 805 773 811 764C821 750 831 728 836 713C837 706 836 699 831 691C827 685 815 672 809 669C806 667 804 665 804 665C804 665 807 663 810 661C819 654 831 637 833 626C834 622 834 622 825 628M523 686C485 716 471 770 494 804C517 839 564 853 606 839C609 838 612 836 612 836C612 836 608 834 603 833C559 818 535 784 545 751C547 744 554 733 558 731C564 728 564 728 559 718C553 707 548 702 537 691L528 682 523 686M716 692C706 702 700 710 694 721L691 727 697 733C720 754 714 792 685 815C677 821 663 828 651 832C643 835 641 836 643 837C644 837 647 838 649 839C663 844 686 846 703 842C733 836 759 814 768 789C771 777 772 756 768 743C763 721 751 702 733 688C729 685 726 682 726 682C725 682 721 686 716 692M604 732C578 736 565 750 569 768C570 774 571 774 574 768C581 756 596 749 621 747C650 746 673 754 682 770L683 773 684 771C686 767 686 756 684 752C680 743 671 737 656 733C646 730 616 729 604 732M504 841C504 859 513 895 522 915L525 922 527 914C528 905 532 889 535 883C536 880 536 879 534 868C532 862 531 856 530 854C530 853 528 851 525 850C521 848 516 844 512 841L504 836 504 841M747 838C745 840 736 846 729 849C726 851 724 853 724 854C723 855 722 862 720 868C718 879 718 880 719 883C722 891 725 903 727 912L729 922 731 917C738 903 746 876 749 856C751 838 750 833 747 838M547 859C547 865 556 888 561 894L563 896 565 887C567 883 569 875 571 871C574 863 574 862 571 862C568 862 552 859 549 858C548 858 547 858 547 859M700 860C696 860 691 861 687 862C684 862 681 863 681 863C681 864 687 883 691 895C691 897 694 894 698 886C702 878 709 858 706 858C706 858 703 859 700 860M578 901C571 917 572 931 580 935C583 937 590 937 626 937C667 937 671 937 674 935C682 931 683 916 676 901L674 897 670 904C667 908 664 913 662 915L659 919 641 920C628 921 620 921 610 920C593 919 594 919 585 906L580 897 578 901M544 901C540 912 538 942 540 952C546 974 558 984 590 996C606 1002 613 1006 621 1012L627 1017 631 1014C637 1008 648 1002 661 997C690 987 702 979 709 963C716 951 717 932 713 913C710 899 710 898 707 908C697 935 685 952 673 957C653 966 598 966 580 957C569 952 558 936 548 909C544 899 544 899 544 901"/></svg></div><div class="in"><div class="txt"><span class="miga"><a href="index.html">Inicio</a> / Pedir plaza</span><h1>Pedir plaza</h1><p class="sub">Formulario de contacto inicial de FBE Coaching Online. Cuéntame tu caso. Te respondo yo.</p></div></div></header>
+<header class="hero mini t-pedir-plaza" id="inicio"><svg class="anillos" viewBox="0 0 600 600" aria-hidden="true"><circle cx="300" cy="300" r="60"/><circle cx="300" cy="300" r="110"/><circle cx="300" cy="300" r="165"/><circle cx="300" cy="300" r="225"/><circle cx="300" cy="300" r="290"/><circle class="punto" cx="465" cy="300" r="7"/><circle class="punto p2" cx="300" cy="75" r="5"/></svg><img class="ilus" src="img/web-pedir-plaza.webp" alt="" width="864" height="760" loading="eager" fetchpriority="high" decoding="async"><div class="in"><div class="txt"><span class="miga"><a href="index.html">Inicio</a> / Pedir plaza</span><h1>Pedir plaza</h1><p class="sub">Formulario de contacto inicial de FBE Coaching Online. Cuéntame tu caso. Te respondo yo.</p></div></div></header>
 <main id="contenido">
 <section><div class="in"><div class="plaza-rejilla">
 <form class="formu sube" id="plaza" data-correo="pelayofbe&#64;fuerzabasadaenevidencia&#46;com" action="https://fbe-formularios.netlify.app/.netlify/functions/plaza" method="post" accept-charset="utf-8">

diff --git a/fuente/calculadora/netlify/index.html b/fuente/calculadora/netlify/index.html
@@ -400,7 +400,7 @@ footer .fuentes::before { content:""; display:block; width:4.6rem; height:2px; m
     </ol>
   </div>
   <svg class="anillos" viewBox="0 0 600 600" aria-hidden="true"><circle cx="300" cy="300" r="60"/><circle cx="300" cy="300" r="110"/><circle cx="300" cy="300" r="165"/><circle cx="300" cy="300" r="225"/><circle cx="300" cy="300" r="290"/><circle class="punto" cx="465" cy="300" r="7"/><circle class="punto p2" cx="300" cy="75" r="5"/></svg>
-  <svg class="agua" aria-hidden="true"><use href="#lobo"/></svg>
+  <img class="ilus" src="calc-cabecera.webp" alt="" width="864" height="760" fetchpriority="high" decoding="async">
 </section>
 
 <main class="wrap" id="calc">

diff --git a/CLAUDE.md b/CLAUDE.md
@@ -20,7 +20,7 @@ rm sitio.py web-fbe-equipo.html sitio-inicio.html
 - `web-img/`: ilustraciones opcionales. Si existe `web-<pagina>.webp` sustituye al lobo de la cabecera; si existe `guia-<nombre>.webp` sustituye al dibujo de la portada (nombres en `GIMG` de interior.py).
 - Otras ilustraciones de `web-img/`: `web-404.webp` (cabecera de la 404), `web-frase.webp` (fondo de la banda del lema en Quien soy) y `web-compartir.webp` (fondo de `og.png`). Los PNG de ChatGPT se recortan antes: cabeceras, el 64 % derecho; portadas de guias, el 72 % superior.
 - Tambien en `web-img/`: `web-contexto`, `web-fuerza-centro`, `web-evidencia` (tarjetas de Como trabajo), `web-poco-tiempo`, `web-dolor`, `web-cronica`, `web-genericas` (Con quien trabajo; si falta, sale el icono) y `boletin-habito`, `boletin-cafeina`, `boletin-pulsaciones` (ultimos envios, lista `BIMG` en el mismo orden que `ENV`; cambiar cuando cambien los envios). Colocadas las 27 ilustraciones el 17/11/2026.
-- Huecos preparados (20/11/2026), entran solos si existe el archivo; si no, sale el lobo: `web-pedir-plaza`, `web-recibido` (gracias-plaza) y `web-privacidad` en `web-img/`; y `calc-cabecera.webp` en `fuente/calculadora/` (la cabecera de la calculadora; tras añadirla, `python3 hacer.py` y volver a subir la carpeta a Netlify). Prompts en el doc del proyecto «claude/web-imagenes-prompts.md», bloque W6.
+- Bloque W6 colocado el 20/11/2026 (entran solos si existe el archivo; si no, sale el lobo): `web-pedir-plaza`, `web-recibido` (gracias-plaza) y `web-privacidad` en `web-img/`; y `calc-cabecera.webp` en `fuente/calculadora/` (la cabecera de la calculadora; tras cambiarla, `python3 hacer.py` y volver a subir la carpeta a Netlify) y `calc-compartir.webp` (fondo de su og.jpg, lo usa `og.mjs`). Prompts en el doc del proyecto «claude/web-imagenes-prompts.md», bloque W6.
 - Fotos reales de Pelayo en `web-img/`: `foto-pelayo.webp` (retrato 4:5 de Quien soy y de la portada; sale de su foto redonda, con las esquinas rellenadas con el fondo morado; si falta, se usa la de MailerLite) y `foto-banner.webp` (banda en Puesta a punto, tras «Que incluye»).
 - `foto-playa.webp` (foto real de Pelayo en la playa): bloque «Quien te escribe» bajo «Que te llega» en Newsletter.
 - La letra Archivo se sirve desde la propia web (`fuente/ext/archivo.woff2` -> `img/archivo.woff2`), recortada el 20/11/2026 a latin basico + espanol + signos tipograficos (57 KB; si aparece un caracter raro sin estilo, rehacer el recorte desde @fontsource-variable/archivo con fontTools.subset); el final de interior.py sustituye el enlace de Google Fonts en todas las paginas generadas. Las landings de guias siguen cargando sus letras de Google.
